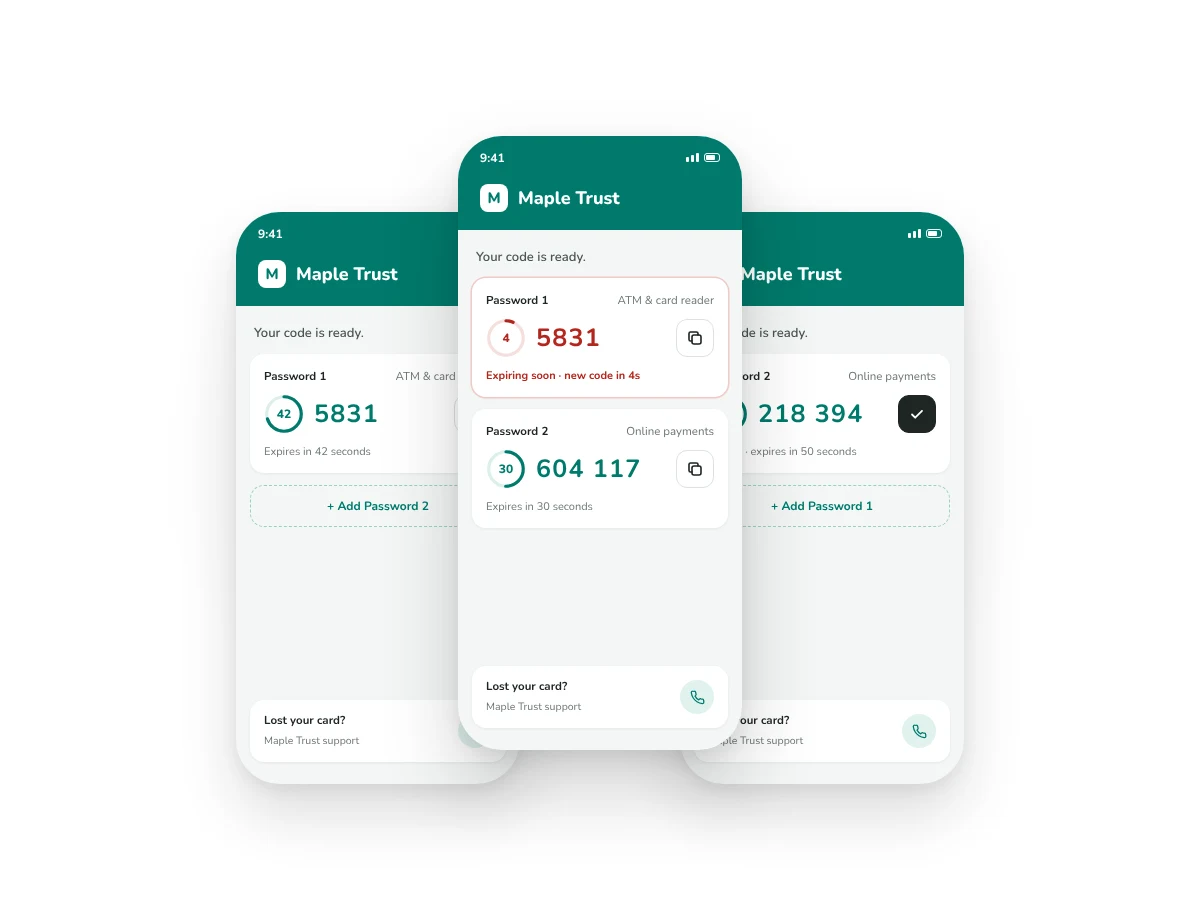
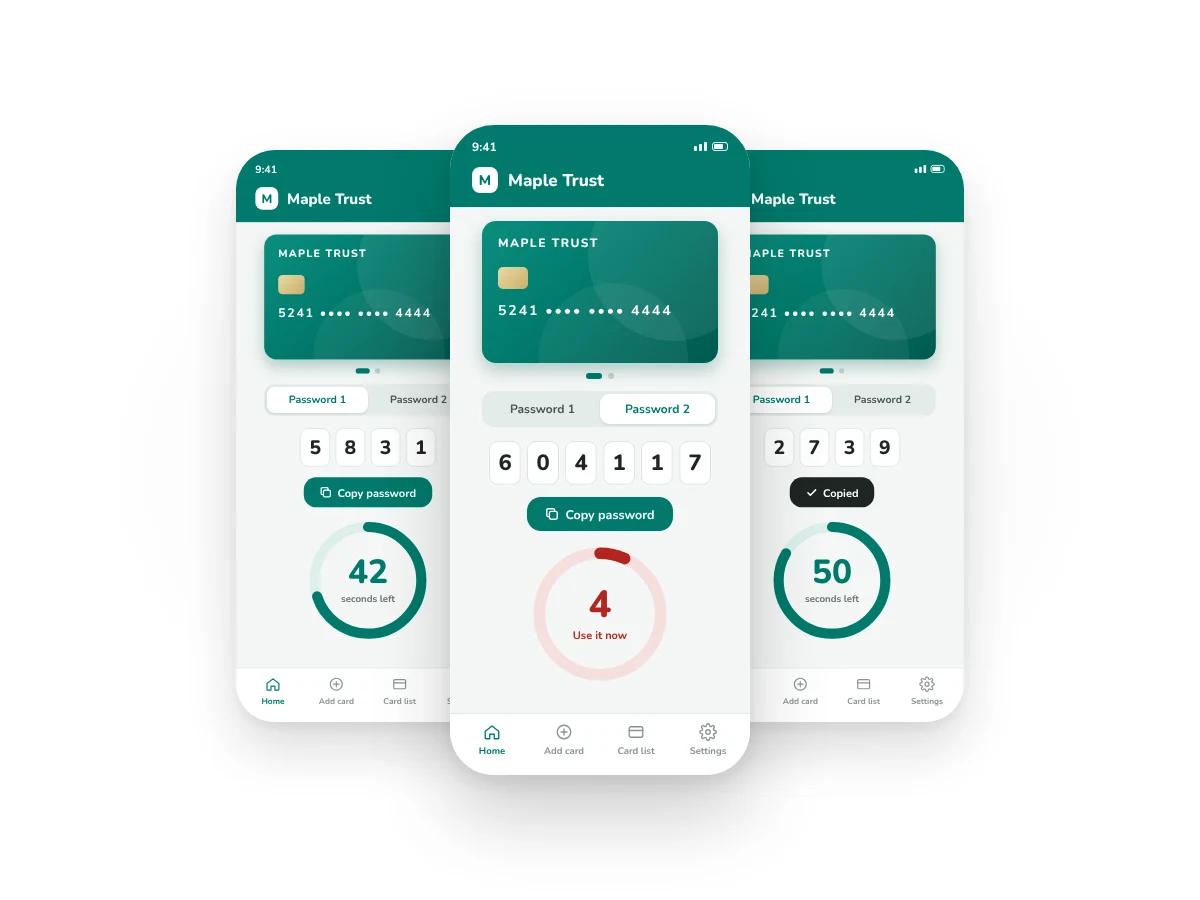
replaced actual card

diff --git a/index.html b/index.html
@@ -97,7 +97,7 @@
             <h2 class="section-title">Selected Work</h2>
             <p class="section-intro">Products I shipped. Some names are changed for privacy.</p>
             <a class="work-card work-card--feature" href="otp-authenticator" style="margin-top: var(--space-4);">
-                <div class="work-card__media"><img src="images/otp-thumbnail.webp" alt="Three Maple Trust app screens: a code with 42 seconds left, a code in its last 4 seconds with the ring turned red, and a code just copied" /></div>
+                <div class="work-card__media"><img src="images/otp-thumbnail.webp" alt="Three Maple Trust app screens, each with the card on top, a Password 1 and 2 switch, the code in digit boxes, a copy button and a big countdown ring: 42 seconds left, the last 4 seconds with the ring turned red, and a code just copied" /></div>
                 <div>
                     <p class="work-card__meta">Shipped &middot; Carrene &middot; iOS &amp; Android</p>
                     <h3 class="work-card__title">Maple Trust Mobile <span class="nowrap">Token&nbsp;<span class="arrow" aria-hidden="true">&rarr;</span></span></h3>

diff --git a/otp-authenticator.html b/otp-authenticator.html
@@ -237,7 +237,7 @@
                 </div>
             </div>
 
-            <img src="images/otp-hero.webp" alt="Three Maple Trust app screens: a code with 42 seconds left, a code in its last 4 seconds with the ring turned red, and a code just copied" width="1600" height="900" style="width: 100%; height: auto; border-radius: var(--radius-md); box-shadow: var(--shadow-md); display: block;" />
+            <img src="images/otp-hero.webp" alt="Three Maple Trust app screens, each with the card on top, a Password 1 and 2 switch, the code in digit boxes, a copy button and a big countdown ring: 42 seconds left, the last 4 seconds with the ring turned red, and a code just copied" width="1600" height="900" style="width: 100%; height: auto; border-radius: var(--radius-md); box-shadow: var(--shadow-md); display: block;" />
 
             <p class="ownership" style="margin-top: var(--space-3); max-width: 100%;"><strong>My part:</strong> Both apps were new. I designed their flows and screens from scratch, for iOS and Android.</p>
 
